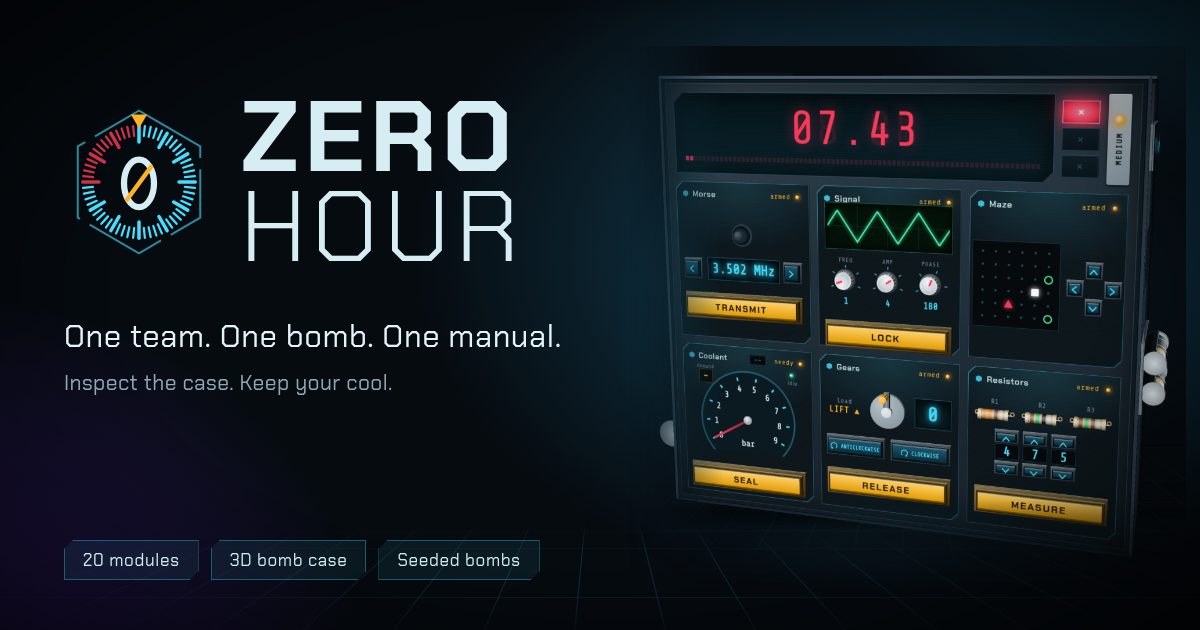
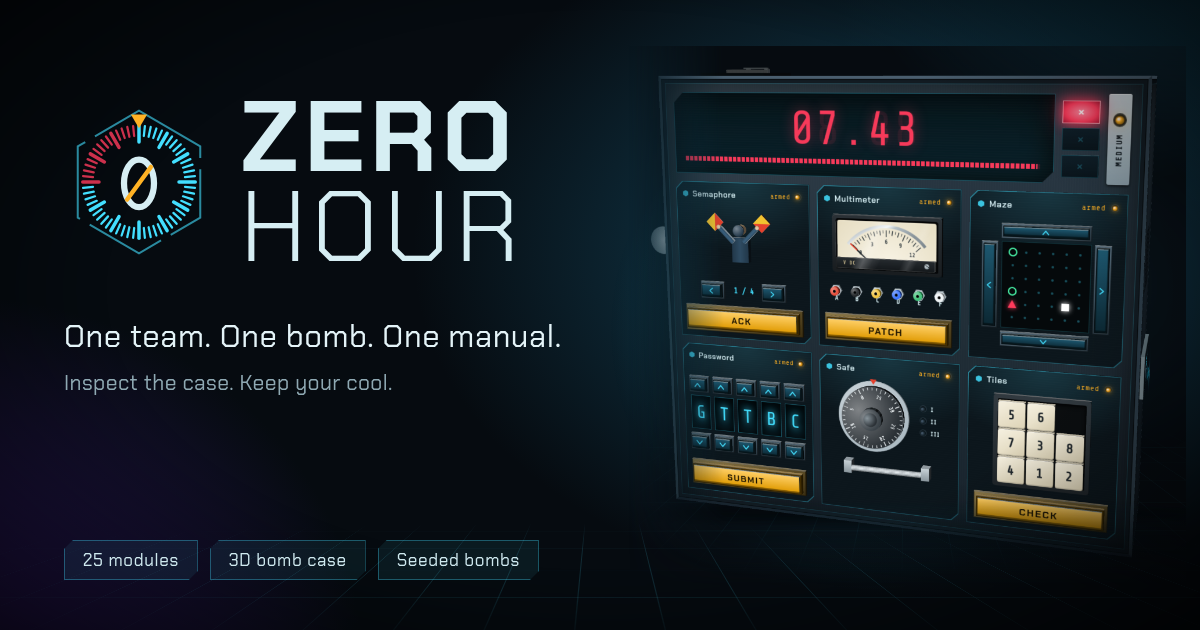
Re-render the social preview with the new modules

diff --git a/README.md b/README.md
@@ -1,6 +1,6 @@
 # Zero Hour
 
-[![Zero Hour: a 3D bomb case with Morse, Signal, Maze, Coolant, Gears and Resistors modules](site/zero-hour-preview.png)](https://zero-hour.sunken.dev/)
+[![Zero Hour: a 3D bomb case with Semaphore, Multimeter, Maze, Password, Safe and Tiles modules](site/zero-hour-preview.png)](https://zero-hour.sunken.dev/)
 
 **One team. One bomb. One manual.**
 
